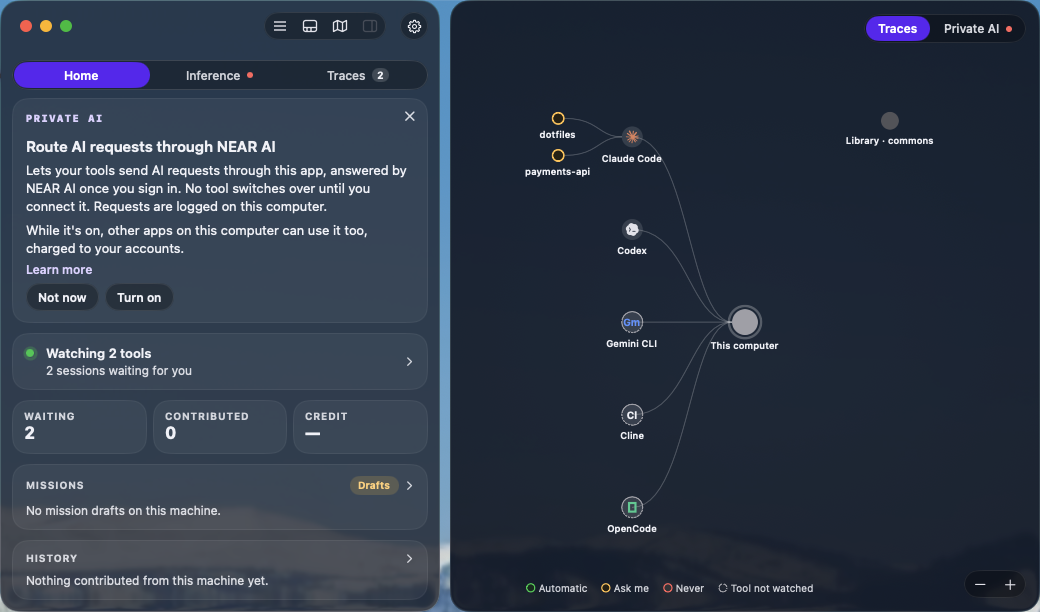
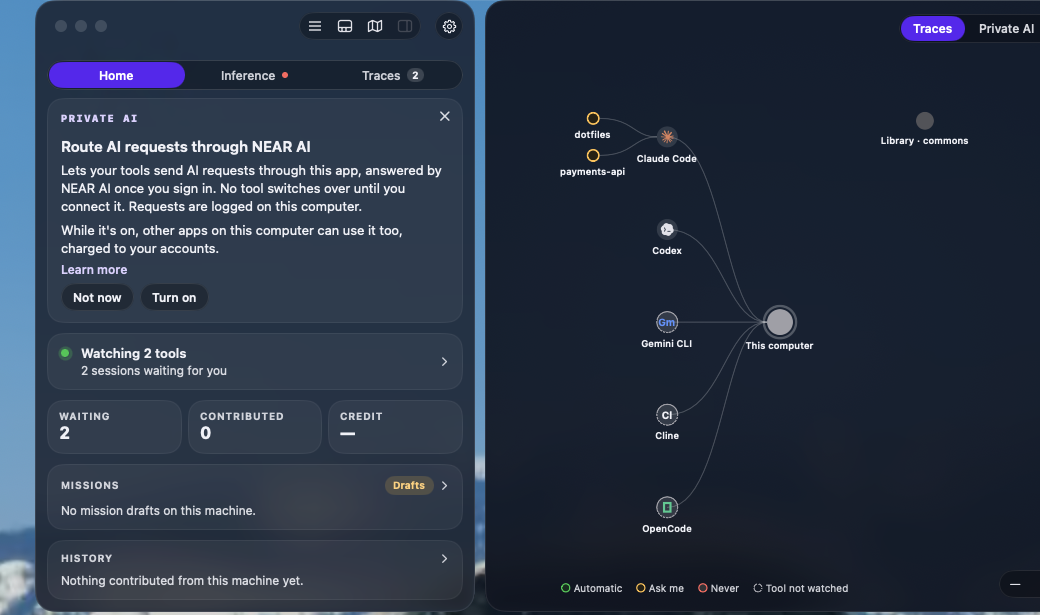
Record General in the settings parity tests and refresh the screenshots
General reads nothing from the daemon and is available before onboarding;
the transcript chip's label is textOnSelected. The Light screenshot shows
the 55% veil.

diff --git a/macos/Tests/TraceCommonsAppTests/SettingsParityTests.swift b/macos/Tests/TraceCommonsAppTests/SettingsParityTests.swift
@@ -367,9 +367,10 @@ final class SettingsParityTests: XCTestCase {
         }
     }
 
-    /// Sections that read nothing from the daemon: the login item, the
-    /// system's notification permission and the update feed are all local.
-    static let localOnlySections: Set<SettingsSection> = [.startup, .notifications, .updates]
+    /// Sections that read nothing from the daemon: the appearance, the
+    /// login item, the system's notification permission and the update feed
+    /// are all local.
+    static let localOnlySections: Set<SettingsSection> = [.general, .startup, .notifications, .updates]
 
     /// Each daemon-reading section's branch for "the daemon has not answered",
     /// and what that branch draws. Every branch is the absent case written

diff --git a/macos/Tests/TraceCommonsAppTests/TracesParityTests.swift b/macos/Tests/TraceCommonsAppTests/TracesParityTests.swift
@@ -290,7 +290,7 @@ final class TracesParityTests: XCTestCase {
             "Text(words?.transcriptCaption ?? \"\")\n"
                 + "                    .glassType(GlassTokens.TypeScale.caption)\n",
             "chip.backgroundColor = GlassTokens.Color.controlSelected.color\n"
-                + "            chip.foregroundColor = GlassColor.textPrimary\n",
+                + "            chip.foregroundColor = GlassTokens.Color.textOnSelected.color\n",
             "Text(segment.text)\n                            .glassType(GlassTokens.TypeScale.mono)\n"
                 + "                            .textSelection(.enabled)\n",
             "TranscriptMarkers.chipped(text, font: GlassTokens.TypeScale.mono.font)",

diff --git a/macos/Tests/TraceCommonsAppTests/WriteSurfacesBeforeOnboardingTests.swift b/macos/Tests/TraceCommonsAppTests/WriteSurfacesBeforeOnboardingTests.swift
@@ -12,7 +12,7 @@ final class WriteSurfacesBeforeOnboardingTests: XCTestCase {
     /// that ask nothing first run asks. Everything else, every write
     /// section included, is unavailable until onboarding is done.
     func test_onlyTheNonConsentSectionsAreAvailableBeforeOnboarding() {
-        let available: Set<SettingsSection> = [.connection, .startup, .notifications, .updates, .privateAI, .compute]
+        let available: Set<SettingsSection> = [.general, .connection, .startup, .notifications, .updates, .privateAI, .compute]
         for section in SettingsSection.allCases {
             XCTAssertEqual(section.availableBeforeOnboarding, available.contains(section), section.rawValue)
         }
